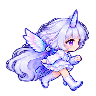
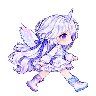
fix(runner): give Yuni a visible alternating stride
Use a twelve-pose near and far leg guide to regenerate Yuni's run sheet, remove faint generation residue, and rebuild her runtime atlas.

Plan: 2026-10-26-running-action-redesign

diff --git a/assets/character/locomotion/RUN_CYCLE_V3.md b/assets/character/locomotion/RUN_CYCLE_V3.md
@@ -6,14 +6,16 @@ These four transparent 4-column by 3-row source sheets replace the earlier eight
 | --- | --- | --- |
 | Aokumo Rin | `aokumo-rin-run-cycle-v3.png` | `run-00`–`run-11` |
 | Shizuki Toa | `shizuki-toa-run-cycle-v3.png` | `goth-student-run-00`–`goth-student-run-11` |
-| Ayatsuno Yuni | `ayatsuno-yuni-run-cycle-v4.png` | `moonwing-run-00`–`moonwing-run-11` |
+| Ayatsuno Yuni | `ayatsuno-yuni-run-cycle-v5.png` | `moonwing-run-00`–`moonwing-run-11` |
 | Akane Lize | `akane-lize-run-cycle-v4.png` | `akane-lize-run-00`–`akane-lize-run-11` |
 
 ## Image generation brief
 
 Each sheet was generated with the built-in image generation tool using its character's existing runtime atlas as the pixel-art identity reference and its portrait as a costume reference. The shared brief requested twelve consecutive right-facing running poses in a transparent 4×3 grid, a right-leg stride followed by a left-leg stride, arms counter-swinging against the legs, consistent face/costume/proportions, a steady torso scale and baseline, and full limbs inside every cell. Character-specific details retained Rin's blue maid outfit, Toa's purple school uniform, Yuni's horn and wings, and Lize's red hair and dark jacket.
 
-Yuni and Lize received a second image-generation edit pass after the initial four-character refresh. Yuni's follow-up brief requested steady horn, wing, and hair silhouettes while preserving clear alternating boots. Lize's requested distinct knees and boots, counter-swinging arms, and steadier red-hair volume. Their `v3` source sheets remain in this directory for comparison; the atlas configs now use the `v4` sheets.
+Yuni and Lize received a second image-generation edit pass after the initial four-character refresh. Yuni's follow-up brief requested steady horn, wing, and hair silhouettes while preserving clear alternating boots. Lize's requested distinct knees and boots, counter-swinging arms, and steadier red-hair volume. Their `v3` source sheets remain in this directory for comparison. Lize's atlas config uses `v4`.
+
+Yuni's `v4` motion still read as a small twitch because both boots occupied similar positions throughout the loop. `yuni-run-pose-guide-v1.svg` and its PNG rendering specify a twelve-step near/far leg crossover: the blue near leg starts forward and moves behind, while the lavender far leg starts behind and moves forward, then they exchange again. The built-in image generation tool used this guide, Yuni's portrait, and her idle sprite as references for `ayatsuno-yuni-run-cycle-v5.png`. The atlas config now uses `v5`; the earlier Yuni sheets remain for comparison. A source alpha threshold removes faint generated color residue before runtime scaling.
 
 ## Runtime preparation
 

diff --git a/.memory/phases/2026-10-26-running-action-redesign/P01-characters-and-entry/T02-runner-action-poses.md b/.memory/phases/2026-10-26-running-action-redesign/P01-characters-and-entry/T02-runner-action-poses.md
@@ -4,7 +4,7 @@
 
 ## Follow-up: natural run cycle
 
-- The first pass used four key poses and four independently generated in-between poses. A later follow-up replaced that run row for all four characters with cohesive twelve-pose source sheets (`assets/character/locomotion/*-run-cycle-v3.png`). Yuni and Lize received `v4` revisions for steadier silhouettes and gait. Runtime frames are `run-00` through `run-11` at 96x96; the selector loops them in 768ms. Old source sheets remain as versioned reference assets. The future runner must use the twelve-frame atlas cycle.
+- The first pass used four key poses and four independently generated in-between poses. A later follow-up replaced that run row for all four characters with cohesive twelve-pose source sheets (`assets/character/locomotion/*-run-cycle-v3.png`). Lize received a `v4` revision. Yuni's `v4` still lacked a visible leg crossover, so a twelve-pose near/far leg guide was used to produce `v5`. Runtime frames are `run-00` through `run-11` at 96x96; the selector loops them in 768ms. Old source sheets remain as versioned reference assets. The future runner must use the twelve-frame atlas cycle.
 
 ## Goal
 
